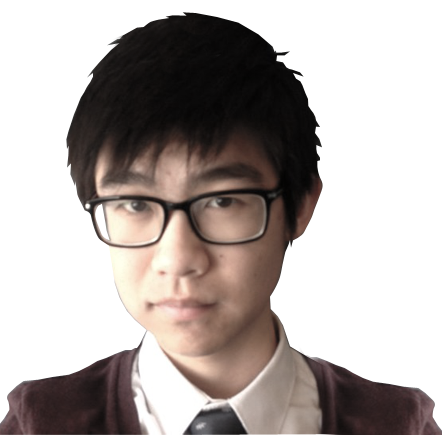
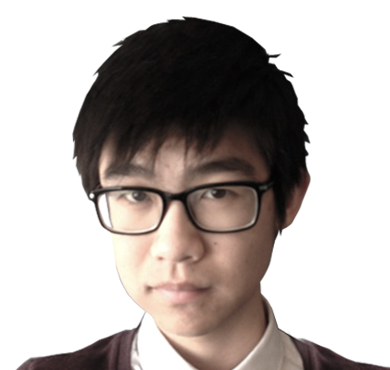
Fixed position and added stats to db.

diff --git a/packages/custom/players/public/views/view.html b/packages/custom/players/public/views/view.html
@@ -3,16 +3,16 @@
   <h1 class="heading-first-name">{{player.first_name}}</h1>
   <div style="position:relative; font-family: 'Titillium Web', sans-serif; font-weight:bold;color:#fff; width:200px; height:300px; text-shadow: rgb(51, 51, 51) 1px 1px 1px; background: url('/{{package.name}}/assets/img/card/card-gold-rare.png'); text-transform:uppercase;">
     <div style="position:relative;top:20px;width:100%;text-align:center; font-size:20px; ">{{player.last_name}}</div>
-    <div style="position:absolute;top:40px;left:20px;font-size:30px;">81</div>
+    <div style="position:absolute;top:40px;left:20px;font-size:30px;">{{player.rating}}</div>
     <div style="position:absolute;top:80px;left:28px;background:url('/{{package.name}}/assets/img/school/{{player.school}}.png') no-repeat; width:40px; height:40px; background-size:80%;"></div>
     <div style="position:absolute;top:110px;left:20px;background:url('/{{package.name}}/assets/img/nation/{{player.nation}}.png') no-repeat; width:48px; height:48px; background-size:100%;"></div>
-    <div style="position:absolute;top:50px;left:70px;width:115px;height:115px;background:url('/{{package.name}}/assets/img/player/{{player.first_name}}{{player.last_name}}.png') no-repeat; background-size:100%;"></div>
-    <div style="position:absolute;top:190px;left:30px;font-size:18px;">79 ACC</div>
-    <div style="position:absolute;top:218px;left:30px;font-size:18px;">77 CON</div>
-    <div style="position:absolute;top:245px;left:30px;font-size:18px;">82 SPN</div>
-    <div style="position:absolute;top:190px;left:110px;font-size:18px;">74 PWR</div>
-    <div style="position:absolute;top:218px;left:110px;font-size:18px;">80 SKL</div>
-    <div style="position:absolute;top:245px;left:110px;font-size:18px;">77 STG</div>
+    <div style="position:absolute;top:49px;left:70px;width:115px;height:115px;background:url('/{{package.name}}/assets/img/player/{{player.first_name}}{{player.last_name}}.png') no-repeat; background-size:100%;"></div>
+    <div style="position:absolute;top:190px;left:30px;font-size:18px;">{{player.accuracy}} ACC</div>
+    <div style="position:absolute;top:218px;left:30px;font-size:18px;">{{player.shooting}} SHO</div>
+    <div style="position:absolute;top:245px;left:30px;font-size:18px;">{{player.consistency}} CON</div>
+    <div style="position:absolute;top:190px;left:105px;font-size:18px;">{{player.spin}} SPN</div>
+    <div style="position:absolute;top:218px;left:105px;font-size:18px;">{{player.power}} PWR</div>
+    <div style="position:absolute;top:245px;left:105px;font-size:18px;">{{player.skill}} SKL</div>
   </div>
   <div data-ng-if="hasAuthorization(article)">
     <a class="btn" href="/#!/articles/{{article._id}}/edit">
